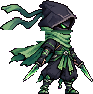
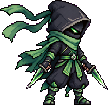
하야테 새 일러스트 적용
Claude-Session: https://claude.ai/code/session_01Fxb29UthuHm5NupsxcALjM

diff --git a/index.html b/index.html
@@ -8,24 +8,24 @@
   <link rel="preconnect" href="https://fonts.googleapis.com">
   <link rel="preconnect" href="https://fonts.gstatic.com" crossorigin>
   <link href="https://fonts.googleapis.com/css2?family=Black+Han+Sans&family=Noto+Sans+KR:wght@400;700;900&display=swap" rel="stylesheet">
-  <link rel="stylesheet" href="style.css?v=202610210956">
-  <script>window.__ASSET_V = '202610210956';</script>
+  <link rel="stylesheet" href="style.css?v=202610211001">
+  <script>window.__ASSET_V = '202610211001';</script>
   <script type="importmap">
   {
     "imports": {
-      "./src/data.js": "./src/data.js?v=202610210956",
-      "./src/maps.js": "./src/maps.js?v=202610210956",
-      "./src/sim.js": "./src/sim.js?v=202610210956",
-      "./src/mapgen.js": "./src/mapgen.js?v=202610210956",
-      "./src/fx.js": "./src/fx.js?v=202610210956",
-      "./src/render.js": "./src/render.js?v=202610210956",
-      "./src/audio.js": "./src/audio.js?v=202610210956",
-      "./src/net.js": "./src/net.js?v=202610210956",
-      "./src/save.js": "./src/save.js?v=202610210956",
-      "./src/ui.js": "./src/ui.js?v=202610210956",
-      "./src/cloud.js": "./src/cloud.js?v=202610210956",
-      "./src/social.js": "./src/social.js?v=202610210956",
-      "./src/config.js": "./src/config.js?v=202610210956"
+      "./src/data.js": "./src/data.js?v=202610211001",
+      "./src/maps.js": "./src/maps.js?v=202610211001",
+      "./src/sim.js": "./src/sim.js?v=202610211001",
+      "./src/mapgen.js": "./src/mapgen.js?v=202610211001",
+      "./src/fx.js": "./src/fx.js?v=202610211001",
+      "./src/render.js": "./src/render.js?v=202610211001",
+      "./src/audio.js": "./src/audio.js?v=202610211001",
+      "./src/net.js": "./src/net.js?v=202610211001",
+      "./src/save.js": "./src/save.js?v=202610211001",
+      "./src/ui.js": "./src/ui.js?v=202610211001",
+      "./src/cloud.js": "./src/cloud.js?v=202610211001",
+      "./src/social.js": "./src/social.js?v=202610211001",
+      "./src/config.js": "./src/config.js?v=202610211001"
     }
   }
   </script>
@@ -45,6 +45,6 @@
     <div id="aug" hidden></div>
     <div id="menu" class="overlay"></div>
   </div>
-  <script type="module" src="./src/main.js?v=202610210956"></script>
+  <script type="module" src="./src/main.js?v=202610211001"></script>
 </body>
 </html>

diff --git a/src/data.js b/src/data.js
@@ -319,7 +319,7 @@ export const HERO_SHEETS = {
   archer: { file: 'hero_archer.png', cell: 72, scale: 1.0 },
   mage: { file: 'hero_mage.png', cell: 104, scale: 0.78 },
   miko: { file: 'hero_miko.png', cell: 104, scale: 0.78 },
-  ninja: { file: 'hero_ninja.png', cell: 112, scale: 0.74 },
+  ninja: { file: 'hero_ninja.png', cell: 128, scale: 0.66 },
   priest: { file: 'hero_priest.png', cell: 104, scale: 0.78 },
   reaper: { file: 'hero_reaper.png', cell: 128, scale: 0.72 },
 };

diff --git a/tools/hero_art.py b/tools/hero_art.py
@@ -316,7 +316,7 @@ HEROES['ninja'] = dict(
         'n...VVVV.',
     ], pivot=(1, 1)),
     kind='melee', legs=('p', 'o', 'O'), arm='a', glove='C', reach=4,
-    sprite=dict(file='tools/art/ninja.png', cell=112, scale=0.74, weapon_from=(78, 56), pivot=(78, 62), legs=(80, 52), face=(48, 11, 32),
+    sprite=dict(file='tools/art/ninja.png', cell=128, scale=0.66, weapon_from=(88, 62), pivot=(86, 68), legs=(92, 60), face=(55, 12, 32),
                 ang=dict(rest=0, windup=-30, strike=25, follow=35, hurt=8, win=-20), push=dict(windup=-1, strike=3, follow=2)),
 )
 # 두 번째 단검은 등에 꽂음
